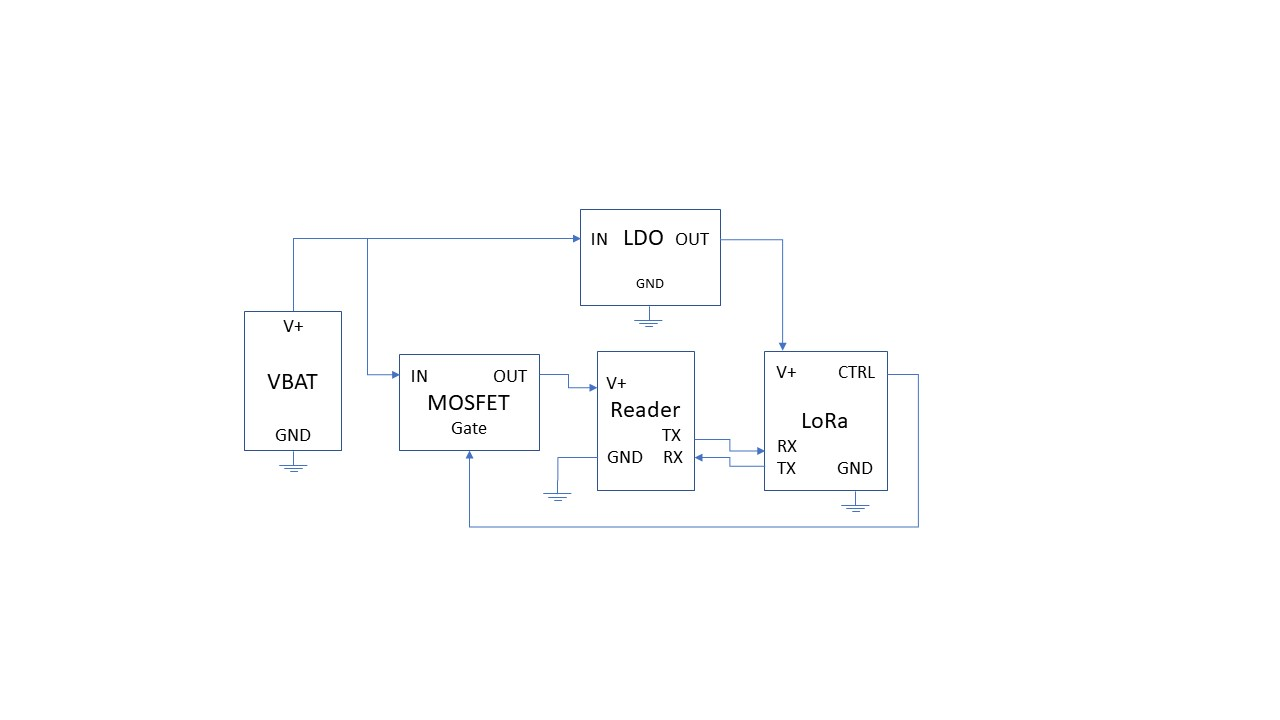
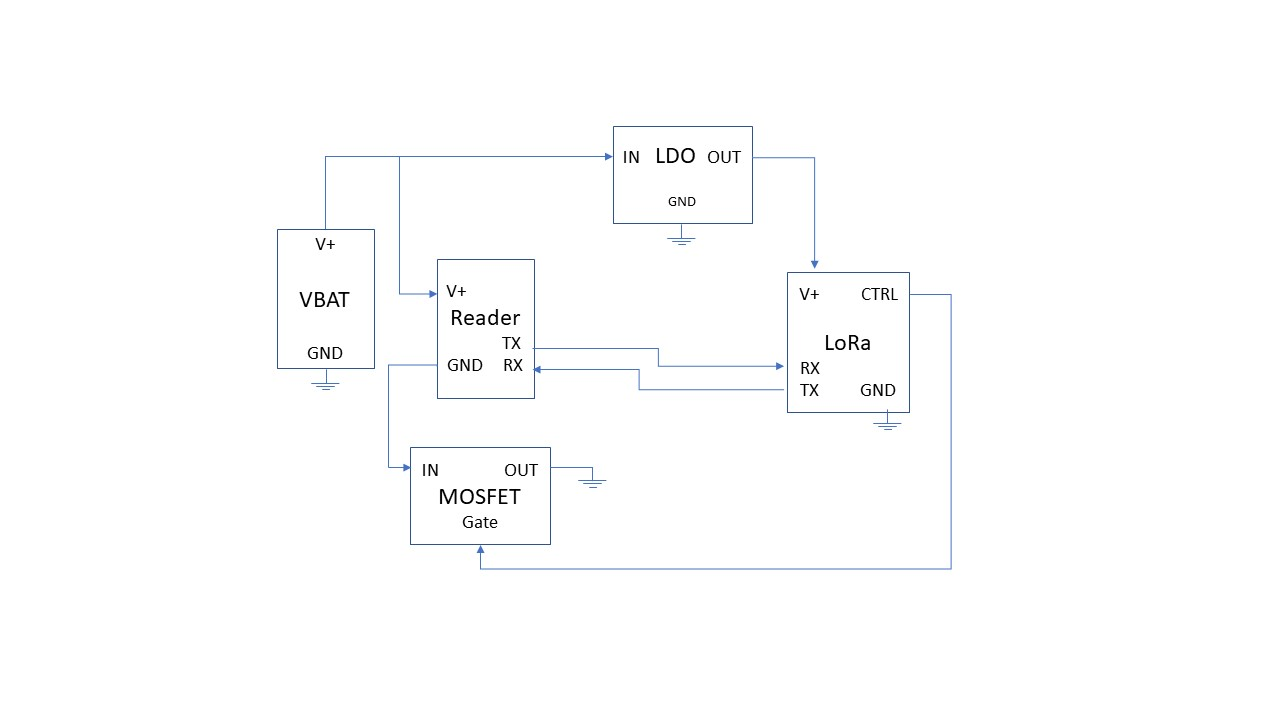
Fixed High Level Schematic and edited README

diff --git a/README.md b/README.md
@@ -1,5 +1,5 @@
 # Overview
-This is a private repository for my project at WISEST lab during Summer 2018 as an undergraduate research assistant. This project is a dairy IoT, using chiefly MATLAB and Arduino (C++/C). MATLAB is responsible for gathering data from experiments and finding calibration coefficients. Arduino programs a microcontroller board. The goal is to monitor the core temperature of livestock and to wirelessly send the data through the internet.
+This is a private repository for my project at WISEST lab during Summer 2018 as an undergraduate research assistant. This project is a dairy IoT, using chiefly Arduino (C++/C) and MATLAB. MATLAB is responsible for gathering data from experiments and finding calibration coefficients. Arduino programs a microcontroller board. The goal is to monitor the core temperature of livestock and to wirelessly send the data through the internet.
 
 # Components used
 1. Adafruit Feather M0 LoRa MCU x2
@@ -105,5 +105,8 @@ This is a private repository for my project at WISEST lab during Summer 2018 as 
 2. Check the power connection and power level.
 3. Check the software problem.
 4. Check the prototype board connection.
+
+# Final words
+This project was not possible without Prof. Kim's, Jingjie's, Hanwook's and others' helps. I really appreciate all helps and advices I received and I am grateful to be given a trust to handle this project.
 
 Contact: Anapat Chairithinugull Email: chairithinug@wisc.edu Cell: +1 6087729985
